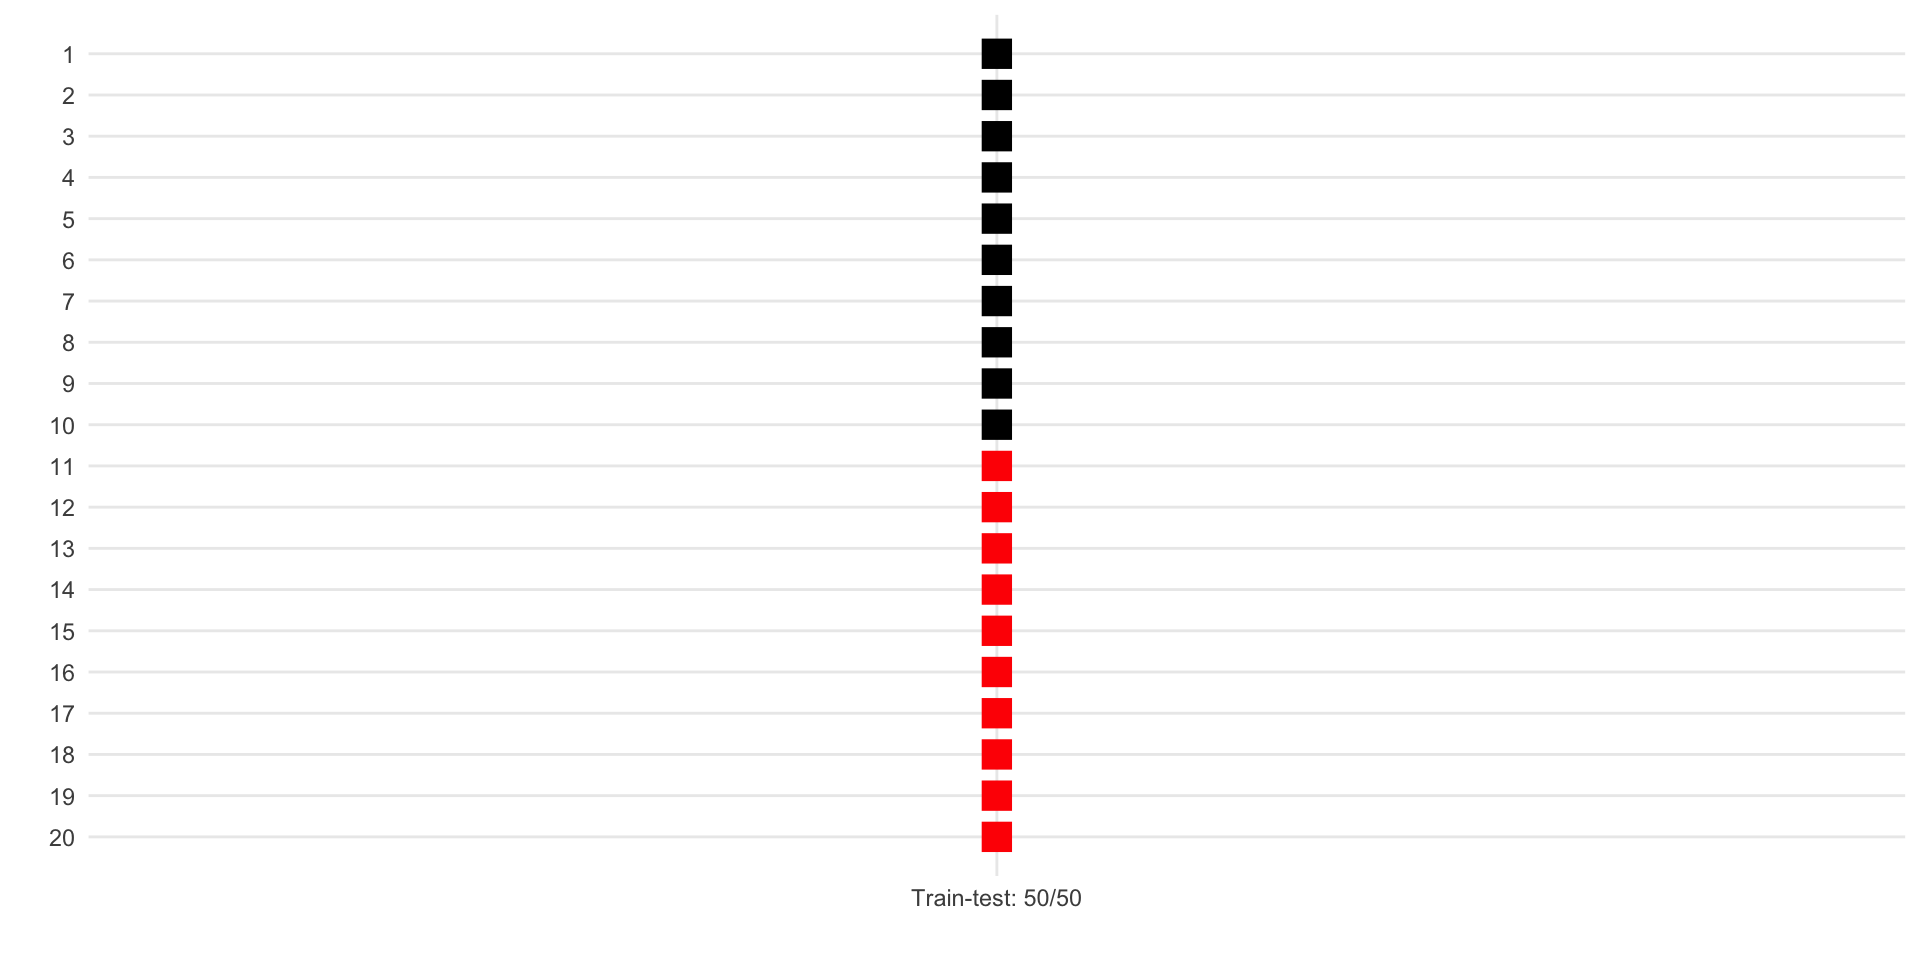
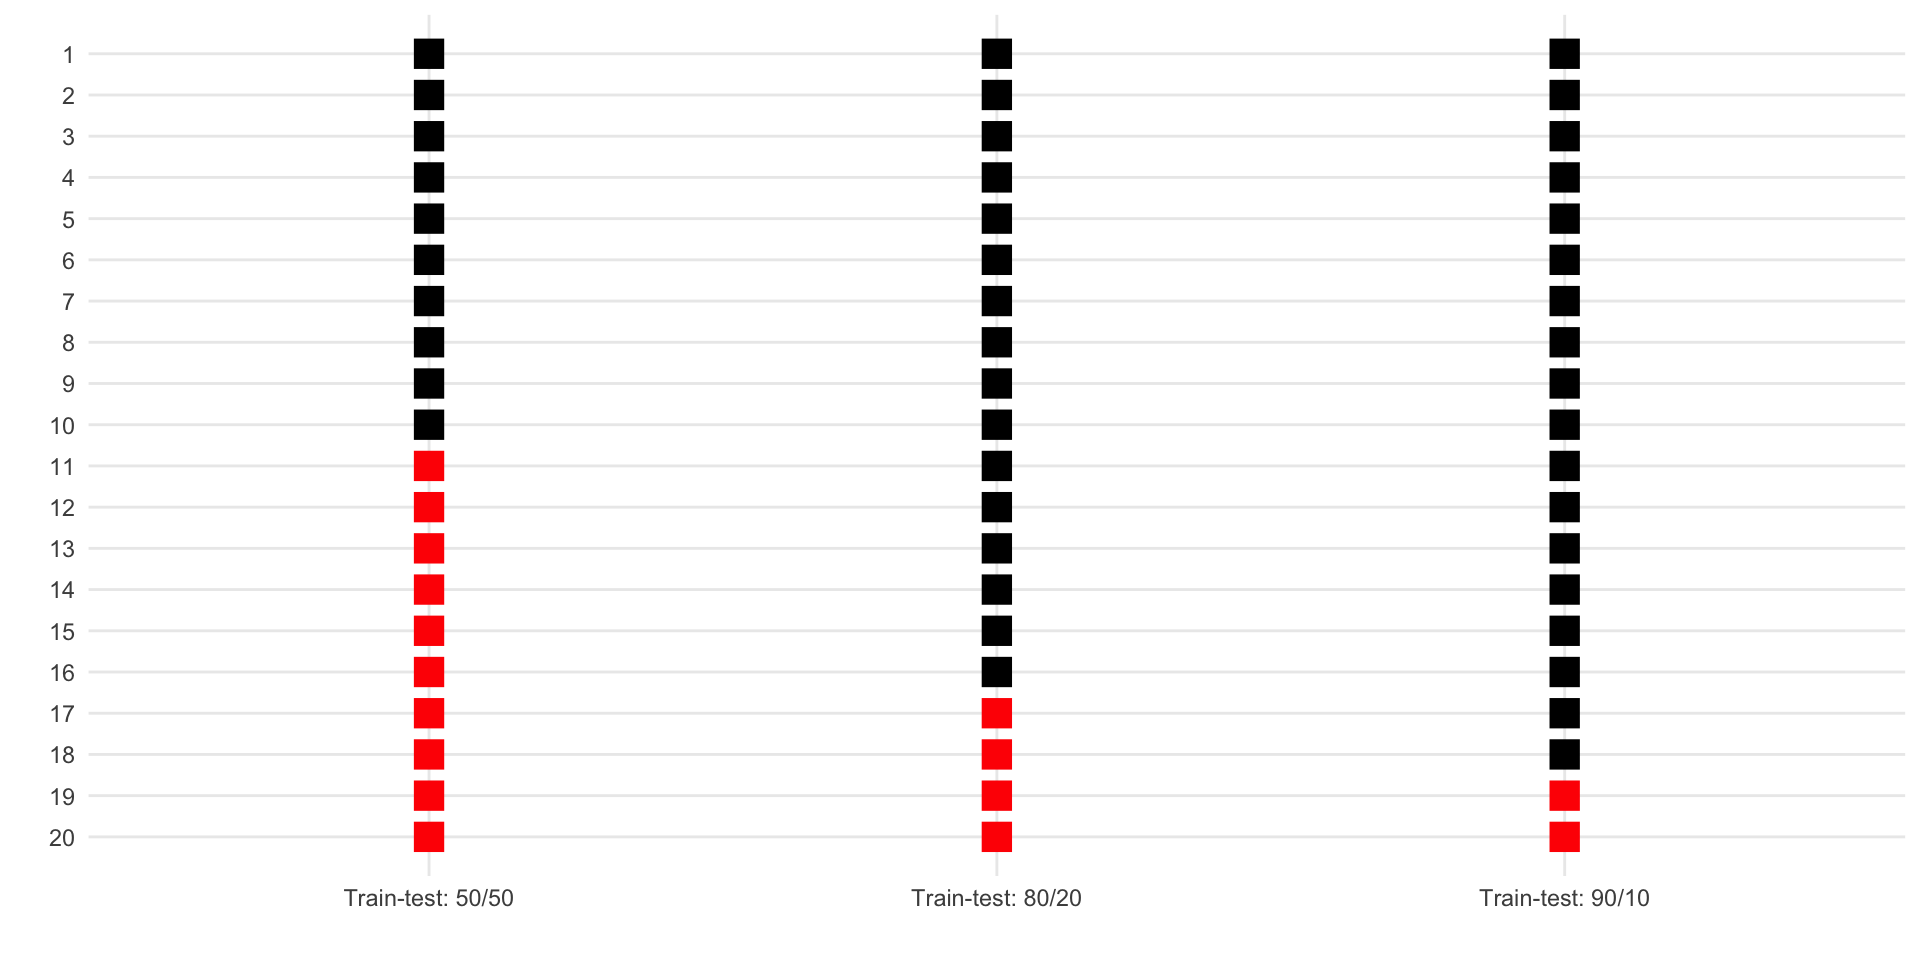
RMSE + AIC together

Changed region(s): [[0.7812, 0.0312, 0.8438, 0.9375], [0.1875, 0.0312, 0.25, 0.9375], [0.5, 0.4688, 0.5312, 0.7188]]

diff --git a/index.html b/index.html
@@ -185,10 +185,6 @@ Dr Joshua Bon
 <h2>How do you choose a good model?</h2>
 
 <img data-src="index_files/figure-revealjs/unnamed-chunk-1-1.png" width="960" class="r-stretch"></section>
-<section id="how-do-you-choose-a-good-model-1" class="slide level2">
-<h2>How do you choose a good model?</h2>
-
-<img data-src="index_files/figure-revealjs/unnamed-chunk-2-1.png" width="960" class="r-stretch"></section>
 <section id="section" class="slide level2">
 <h2></h2>
 <div style="position: relative; padding-bottom: 56.25%; padding-top: 35px; height: 0; overflow: hidden;">
@@ -236,19 +232,19 @@ Dr Joshua Bon
 <section id="if-we-had-more-data" class="slide level2">
 <h2>If we had more data…</h2>
 
-<img data-src="index_files/figure-revealjs/unnamed-chunk-3-1.png" width="960" class="r-stretch"></section>
+<img data-src="index_files/figure-revealjs/unnamed-chunk-2-1.png" width="960" class="r-stretch"></section>
 <section id="if-we-had-more-data-1" class="slide level2">
 <h2>If we had more data…</h2>
 
-<img data-src="index_files/figure-revealjs/unnamed-chunk-4-1.png" width="960" class="r-stretch"></section>
+<img data-src="index_files/figure-revealjs/unnamed-chunk-3-1.png" width="960" class="r-stretch"></section>
 <section id="if-we-had-more-data-2" class="slide level2">
 <h2>If we had more data…</h2>
 
-<img data-src="index_files/figure-revealjs/unnamed-chunk-5-1.png" width="960" class="r-stretch"></section>
+<img data-src="index_files/figure-revealjs/unnamed-chunk-4-1.png" width="960" class="r-stretch"></section>
 <section id="if-we-had-more-data-3" class="slide level2">
 <h2>If we had more data…</h2>
 
-<img data-src="index_files/figure-revealjs/unnamed-chunk-6-1.png" width="960" class="r-stretch"></section>
+<img data-src="index_files/figure-revealjs/unnamed-chunk-5-1.png" width="960" class="r-stretch"></section>
 <section id="training-and-test-data" class="slide level2">
 <h2>Training and test data</h2>
 <p>In this example we</p>
@@ -274,12 +270,12 @@ Which model should I choose?
 <h2>Train-test data splits</h2>
 <p>Idea: Split your data into a <strong>training set</strong> and <span style="color:red;"><strong>test set</strong></span>.</p>
 
-<img data-src="index_files/figure-revealjs/unnamed-chunk-7-1.png" width="960" class="r-stretch"></section>
+<img data-src="index_files/figure-revealjs/unnamed-chunk-6-1.png" width="960" class="r-stretch"></section>
 <section id="train-test-data-splits-1" class="slide level2">
 <h2>Train-test data splits</h2>
 <p>Idea: Split your data into a <strong>training set</strong> and <span style="color:red;"><strong>test set</strong></span>.</p>
 
-<img data-src="index_files/figure-revealjs/unnamed-chunk-8-1.png" width="960" class="r-stretch"></section>
+<img data-src="index_files/figure-revealjs/unnamed-chunk-7-1.png" width="960" class="r-stretch"></section>
 <section id="train-test-data-splits-2" class="slide level2">
 <h2>Train-test data splits</h2>
 <div class="columns">
@@ -296,7 +292,7 @@ Which model should I choose?
 <div class="cell-output-display">
 <div>
 <figure>
-<p><img data-src="index_files/figure-revealjs/unnamed-chunk-9-1.png" width="384"></p>
+<p><img data-src="index_files/figure-revealjs/unnamed-chunk-8-1.png" width="384"></p>
 </figure>
 </div>
 </div>
@@ -326,7 +322,7 @@ Which model should I choose?
 <div class="cell-output-display">
 <div>
 <figure>
-<p><img data-src="index_files/figure-revealjs/unnamed-chunk-10-1.png" width="384"></p>
+<p><img data-src="index_files/figure-revealjs/unnamed-chunk-9-1.png" width="384"></p>
 </figure>
 </div>
 </div>
@@ -342,11 +338,11 @@ Which model should I choose?
 <h2>k-fold cross-validation</h2>
 <p>Duplicate data into <span class="math inline">\(k\)</span> “folds”: <strong>training sets</strong> and <span style="color:red;"><strong>test sets</strong></span></p>
 
-<img data-src="index_files/figure-revealjs/unnamed-chunk-11-1.png" width="960" class="r-stretch"></section>
+<img data-src="index_files/figure-revealjs/unnamed-chunk-10-1.png" width="960" class="r-stretch"></section>
 <section id="leave-one-out-cross-validation-kn" class="slide level2">
 <h2>Leave-one-out cross-validation <span class="math inline">\(k=n\)</span></h2>
 
-<img data-src="index_files/figure-revealjs/unnamed-chunk-12-1.png" width="960" class="r-stretch"></section>
+<img data-src="index_files/figure-revealjs/unnamed-chunk-11-1.png" width="960" class="r-stretch"></section>
 <section id="cross-validation-workflow" class="slide level2">
 <h2>Cross-validation workflow</h2>
 <div class="cell" data-reveal="true" data-layout-align="default">
